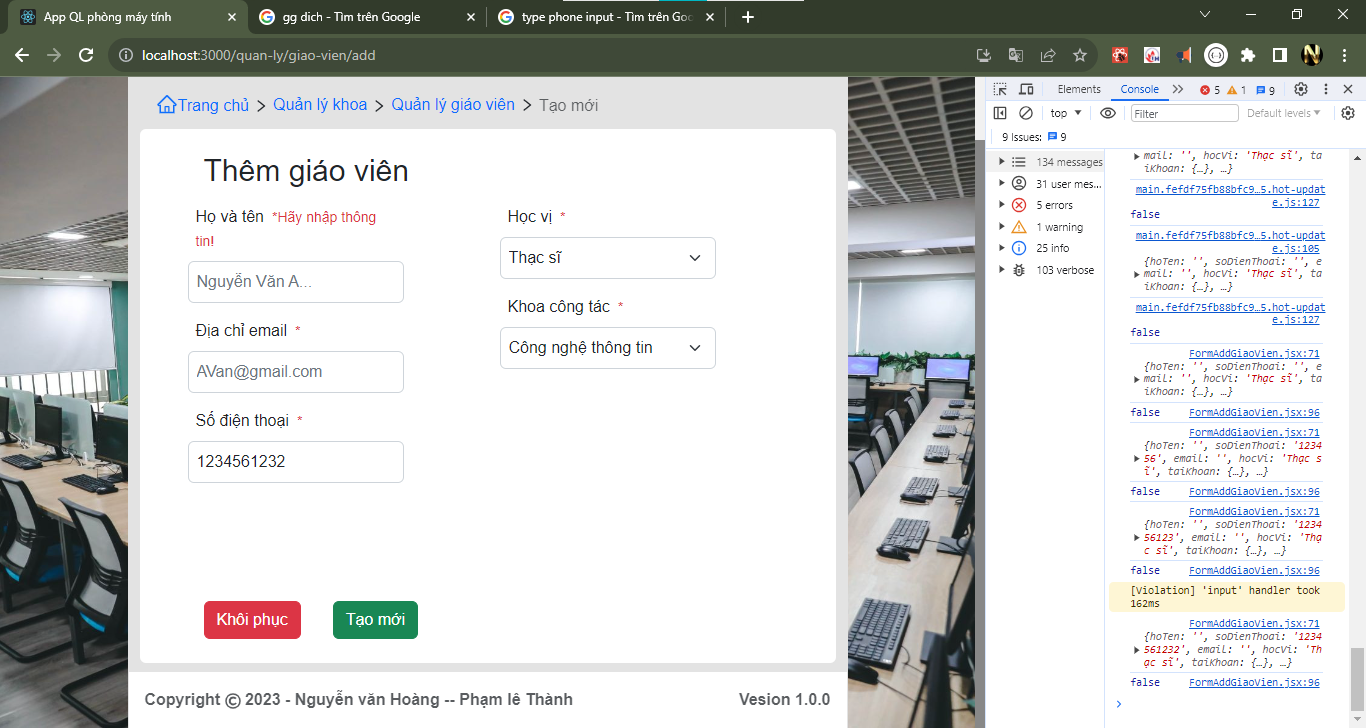
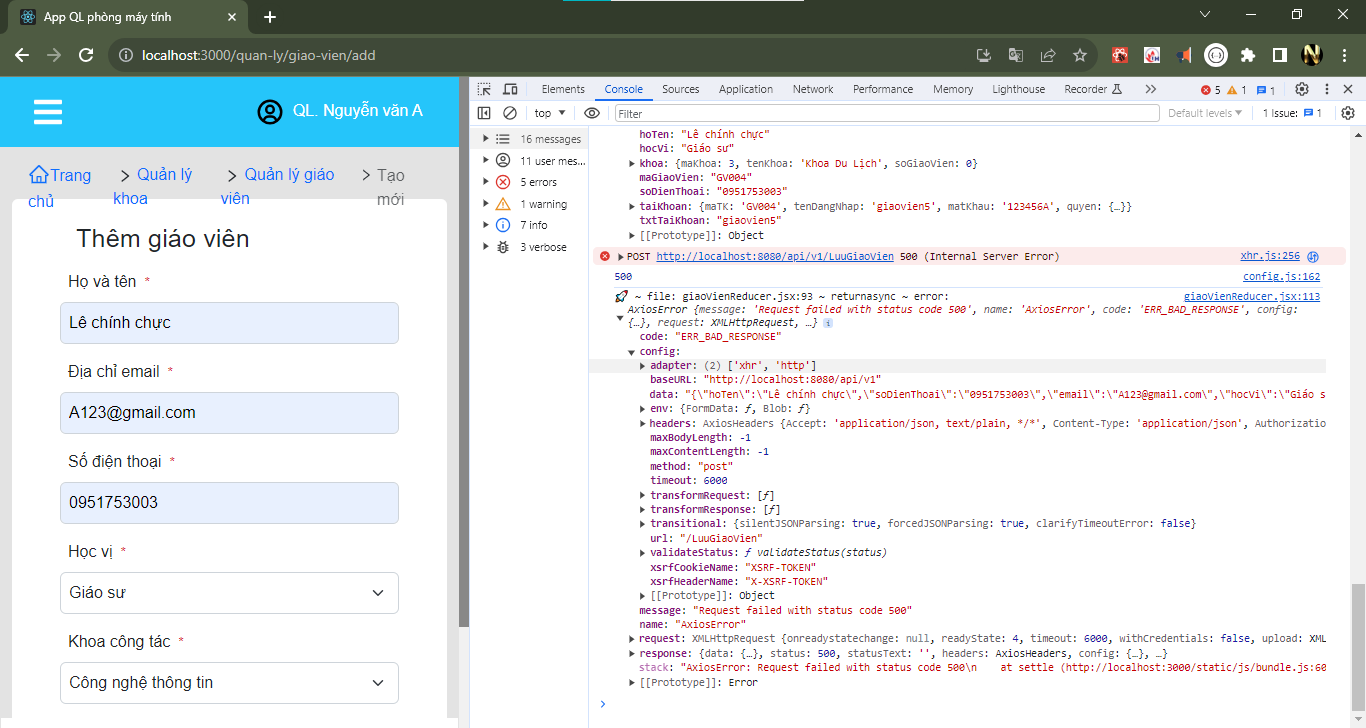
FormAddGiaoVien: err insert GV

diff --git a/src/components/layout/Add/FormAddGiaoVien.jsx b/src/components/layout/Add/FormAddGiaoVien.jsx
@@ -3,19 +3,25 @@ import Footer from "../../common/Footer/Footer";
 import NavTab from "../../common/NavTab/NavTab";
 import { useDispatch, useSelector } from "react-redux";
 import { getAllKhoaApi } from "../../../redux/reducers/khoaReducer";
+import {
+  getAllGiaoVienApi,
+  insertGiaoVienApi,
+} from "../../../redux/reducers/giaoVienReducer";
+import { getAllTaiKhoanApi, insertTaiKhoanApi } from "../../../redux/reducers/taiKhoanReducer";
 
 export default function FormAddGiaoVien() {
   const dispatch = useDispatch();
   //
+  let { arrTaiKhoan } = useSelector((state) => state.taiKhoanReducer);
   let { arrKhoa } = useSelector((state) => state.khoaReducer);
-
+  const { arrGiaoVien } = useSelector((state) => state.giaoVienReducer);
   //
   let objGiaoVien = useRef({
     hoTen: "",
     soDienThoai: "",
     email: "",
     hocVi: "Thạc sĩ",
-    taiKhoan: {},
+    txtTaiKhoan: "",
     khoa: {},
   });
   let [errGiaoVien, setErrGiaoVien] = useState({
@@ -23,6 +29,7 @@ export default function FormAddGiaoVien() {
     soDienThoai: "",
     email: "",
     khoa: "",
+    taiKhoan: "",
   });
 
   //
@@ -35,9 +42,15 @@ export default function FormAddGiaoVien() {
         soDienThoai: "",
         email: "",
         hocVi: "Thạc sĩ",
-        taiKhoan: {},
+        txtTaiKhoan: '',
         khoa: arrKhoa[0],
       };
+    }
+    if (arrGiaoVien.length === 0) {
+      dispatch(getAllGiaoVienApi);
+    }
+    if (arrTaiKhoan.length === 0) {
+      dispatch(getAllTaiKhoanApi);
     }
   }, []);
 
@@ -64,13 +77,53 @@ export default function FormAddGiaoVien() {
     let arrdata = arrKhoa.filter((item) => item.maKhoa == idKhoa);
 
     objGiaoVien.current.khoa = arrdata[0];
+
+    setErrGiaoVien({ ...errGiaoVien, khoa: "" });
+  };
+  //
+  const handleChangeTextTaiKhoan = (e) => {
+    let { id, value } = e.target;
+
+    objGiaoVien.current[id] = value;
+
+    if (value.trim().length === 0) {
+      setErrGiaoVien({ ...errGiaoVien, taiKhoan: "Hãy nhập thông tin!" });
+    } else {
+      setErrGiaoVien({ ...errGiaoVien, taiKhoan: "" });
+    }
   };
   //
   const handleSubmit = (e) => {
     e.preventDefault();
-    console.log(objGiaoVien.current);
     if (checkData()) {
       // true
+      // check trung Tai khoan
+      let objTaiKhoan = arrTaiKhoan.find(item => item.tenDangNhap == objGiaoVien.current.txtTaiKhoan )
+
+      if(objTaiKhoan != null){
+        alert('Trùng tài khoản!')
+        return;
+      }
+      //
+      let maGiaoVien = getRandomMaGV(arrGiaoVien);
+
+      
+      let {txtTaiKhoan} = objGiaoVien.current 
+
+      let taiKhoan =  {
+        maTK: maGiaoVien,
+        tenDangNhap: txtTaiKhoan,
+        matKhau:'123456A',
+        quyen: {
+          maQuyen:2,
+          tenQuyen: "Giáo viên",
+        }
+      }
+      objGiaoVien.current = { ...objGiaoVien.current, maGiaoVien, taiKhoan }
+
+      //
+      dispatch(insertTaiKhoanApi(taiKhoan));
+      dispatch(insertGiaoVienApi(objGiaoVien.current));
     }
     // false
   };
@@ -83,37 +136,62 @@ export default function FormAddGiaoVien() {
     let errsoDienThoai = "";
     let erremail = "";
     let errkhoa = "";
+    let errTaiKhoan = '';
 
     let regexEmail = new RegExp(
-      "^[a-zA-Z0-9._:$!%-]+@[a-zA-Z0-9.-]+.[a-zA-Z]$"
+      /^[a-zA-Z0-9._:$!%-]+@[a-zA-Z0-9.-]+.[a-zA-Z]$/
     );
-    let regexPhone = new RegExp(
-      "\d{9,12}"
-    );
+    let regexPhone = new RegExp(/^\d{9,12}$/);
 
-    let { hoTen, soDienThoai, email, khoa } = objGiaoVien.current;
-
-    console.log(regexPhone.test(soDienThoai));
+    let { hoTen, soDienThoai, email, khoa, txtTaiKhoan } = objGiaoVien.current;
 
     if (hoTen.trim().length === 0) {
       errhoTen = "Hãy nhập thông tin!";
+      result = false;
     }
+    //
     if (soDienThoai.trim().length === 0) {
       errsoDienThoai = "Hãy nhập thông tin!";
-    } else if (soDienThoai.trim().length < 9 || soDienThoai.trim().length > 15) {
+      result = false;
+    } else if (
+      soDienThoai.trim().length < 9 ||
+      soDienThoai.trim().length > 15
+    ) {
       errsoDienThoai = "Số điện thoại có trên 9 số và nhỏ hơn 15 số!";
+      result = false;
+    } else if (!regexPhone.test(soDienThoai)) {
+      errsoDienThoai = "Hãy nhập các ký tự số!";
+      result = false;
+    }
+    //
+    if (email.trim().length === 0) {
+      result = false;
+      erremail = "Hãy nhập thông tin!";
+    } else if (!regexEmail.test(email)) {
+      erremail = "Hãy nhập đúng định danh của email!";
+      result = false;
+    }
+    //
+    if (khoa == null || Object.keys(khoa).length === 0) {
+      errkhoa = "Hãy chọn một khoa!";
+      result = false;
+    }
+    //
+    
+    if(txtTaiKhoan.trim().length === 0){
+      errTaiKhoan = "Hãy nhập thông tin!"
+      result = false;
     }
     
-    
-    // if(regexPhone.test(soDienThoai)) {
-    // }
 
+//
     setErrGiaoVien({
       hoTen: errhoTen,
       soDienThoai: errsoDienThoai,
       email: erremail,
       khoa: errkhoa,
-    })
+      taiKhoan:errTaiKhoan,
+    });
 
     return result;
   };
@@ -284,6 +362,31 @@ export default function FormAddGiaoVien() {
                           {renderSelectKhoa()}
                         </select>
                       </div>
+
+                      {/* input Tai khoan GV */}
+                      <div className="mb-3 col-md-9">
+                        <label
+                          htmlFor="txtTaiKhoan"
+                          className="form-label ms-2"
+                        >
+                          Tài khoản
+                          <small
+                            id="errTaiKhoan"
+                            className="form-text text-danger mx-2"
+                          >
+                            *{errGiaoVien.taiKhoan}
+                          </small>
+                        </label>
+                        <input
+                          type="text"
+                          className="form-control p-2"
+                          name="txtTaiKhoan"
+                          id="txtTaiKhoan"
+                          aria-describedby="errTaiKhoan"
+                          placeholder="giaovien1"
+                          onChange={handleChangeTextTaiKhoan}
+                        />
+                      </div>
                     </div>
                   </div>
                 </div>
@@ -305,3 +408,21 @@ export default function FormAddGiaoVien() {
     </>
   );
 }
+
+const getRandomMaGV = (arrData) => {
+  let idNext = "";
+  let objDataLast = arrData[arrData.length - 1];
+
+  let strId = objDataLast.maGiaoVien.slice(2);
+
+  let intId = parseInt(strId) + 1;
+
+  if (intId < 10) {
+    idNext = "GV00" + intId;
+  } else if (intId < 100) {
+    idNext = "GV0" + intId;
+  } else {
+    idNext = "GV" + intId;
+  }
+  return idNext;
+};

diff --git a/src/redux/reducers/taiKhoanReducer.jsx b/src/redux/reducers/taiKhoanReducer.jsx
@@ -69,6 +69,19 @@ const taiKhoanReducer = createSlice({
         action.payload
       );
     },
+    insertTaiKhoanAction: (state, action) => {
+      let taiKhoan = action.payload;
+
+      state.arrTaiKhoan.push(taiKhoan);
+
+      // let { arrTaiKhoan, valueSearch, valueSelect } = state;
+
+      // state.arrTaiKhoanSearch = dataSearch(
+      //   arrTaiKhoan,
+      //   valueSearch,
+      //   valueSelect
+      // );
+    },
   },
 });
 // exp nay de sử dụng theo cách 2
@@ -77,16 +90,31 @@ export const {
   setValueSearchTaiKhoan,
   serArrQuyenAction,
   setValueSelectTaiKhoan,
+  insertTaiKhoanAction,
 } = taiKhoanReducer.actions;
 export default taiKhoanReducer.reducer;
 
 // -------------- Call API ---------------
+export const insertTaiKhoanApi = (taiKhoan) => {
+  return async (dispatch) => {
+    try {
+      let result = await http.post("/tai_khoan", taiKhoan);
 
+      dispatch(insertTaiKhoanAction(result.data));
+    } catch (error) {
+      console.log("🚀 ~ file: taiKhoanReducer.jsx:89 ~ return ~ error:", error);
+    }
+  };
+};
+/**
+ * get All api
+ *
+ * @param {*} dispatch
+ */
 export const getAllTaiKhoanApi = async (dispatch) => {
   try {
-    // const result = await http.get("/TaiKhoan...");
-    // dispatch(setArrTaiKhoanAction(result.data.content));
-    dispatch(setArrTaiKhoanAction(Database.dataTaiKhoan));
+    const result = await http.get("/DSTaiKhoan");
+    dispatch(setArrTaiKhoanAction(result.data));
   } catch (error) {
     console.log(
       "🚀 ~ file: taiKhoanReducer.jsx:38 ~ getAllTaiKhoanApi ~ error:",
@@ -116,12 +144,13 @@ export const getAllQuyenSDApi = async (dispatch) => {
 export const updateTaiKhoan = (taiKhoan) => {
   return async (dispatch) => {
     try {
-      let result = await http.put('/tai_khoan', taiKhoan);
-      console.log("reducer - updateTaiKhoan() - " + result.status);      
-      
+      let result = await http.put("/tai_khoan", taiKhoan);
+      console.log("reducer - updateTaiKhoan() - " + result.status);
     } catch (error) {
-      console.log("🚀 ~ file: taiKhoanReducer.jsx:121 ~ return ~ error:", error)
-      
+      console.log(
+        "🚀 ~ file: taiKhoanReducer.jsx:121 ~ return ~ error:",
+        error
+      );
     }
-  }
-}
+  };
+};

diff --git a/src/redux/reducers/giaoVienReducer.jsx b/src/redux/reducers/giaoVienReducer.jsx
@@ -3,6 +3,7 @@
 import { createSlice } from "@reduxjs/toolkit";
 import { formatNameByHocVi, http } from "../../util/config";
 import Database from "../../util/database/Database";
+import { history } from "../..";
 
 // function
 const dataSearch = (arrData, valSearch, valSelect) => {
@@ -73,15 +74,52 @@ const giaoVienReducer = createSlice({
         action.payload
       );
     },
+    insertGiaoVienAction: (state, action) =>{
+      let giaoVien = action.payload;
+      console.log("🚀 ~ file: giaoVienReducer.jsx:79 ~ giaoVien:", giaoVien)
+
+      state.arrGiaoVien.push(giaoVien);
+
+      let{arrGiaoVien, valueSearch, valueSelect} = state;
+      state.arrGiaoVienSearch = dataSearch(arrGiaoVien, valueSearch, valueSelect)
+
+    }
   },
 });
 // exp nay de sử dụng theo cách 2
-export const { setArrGiaoVienAction, setValueSelectGiaoVien, setValueSearchGiaoVien } =
+export const { setArrGiaoVienAction, setValueSelectGiaoVien, setValueSearchGiaoVien,
+insertGiaoVienAction,
+ } =
   giaoVienReducer.actions;
 export default giaoVienReducer.reducer;
 
 // -------------- Call API ---------------
 
+/**
+ * add 1 Giao Vien
+ */
+export const insertGiaoVienApi = (giaoVien) => {
+  console.log("🚀 ~ file: giaoVienReducer.jsx:102 ~ insertGiaoVienApi ~ giaoVien:", giaoVien)
+  return async(dispatch) => {
+    try {
+
+      let result = await http.post('/LuuGiaoVien', giaoVien);
+      console.log("🚀 ~ file: giaoVienReducer.jsx:106 ~ returnasync ~ result.data:", result.data)
+
+      dispatch(insertGiaoVienAction(result.data))
+
+      history('/quan-ly/giao-vien')
+    } catch (error) {
+      console.log("🚀 ~ file: giaoVienReducer.jsx:93 ~ returnasync ~ error:", error)
+      
+    }
+  }
+}
+
+/**
+ * Get all Api
+ * @param {*} dispatch 
+ */
 export const getAllGiaoVienApi = async (dispatch) => {
   try {
     const result = await http.get("/DSGiaoVien");

diff --git a/README.md b/README.md
@@ -94,6 +94,7 @@
     - QL Phong khi them 1 phong chon so luong máy tính(VD 5 cai) có thế mặc định add 5 cái may tinh không? 
     - FormAddPhong: api chua duoc
     - PageQLKhoa - update: chua biet tat model
+    -- FormAddGiaoVien: api add TaiKhoan Thanh cong -- api Add GV errr 500 -- update theeo server mới thử- good look
 
 ## Tài liệu
 
